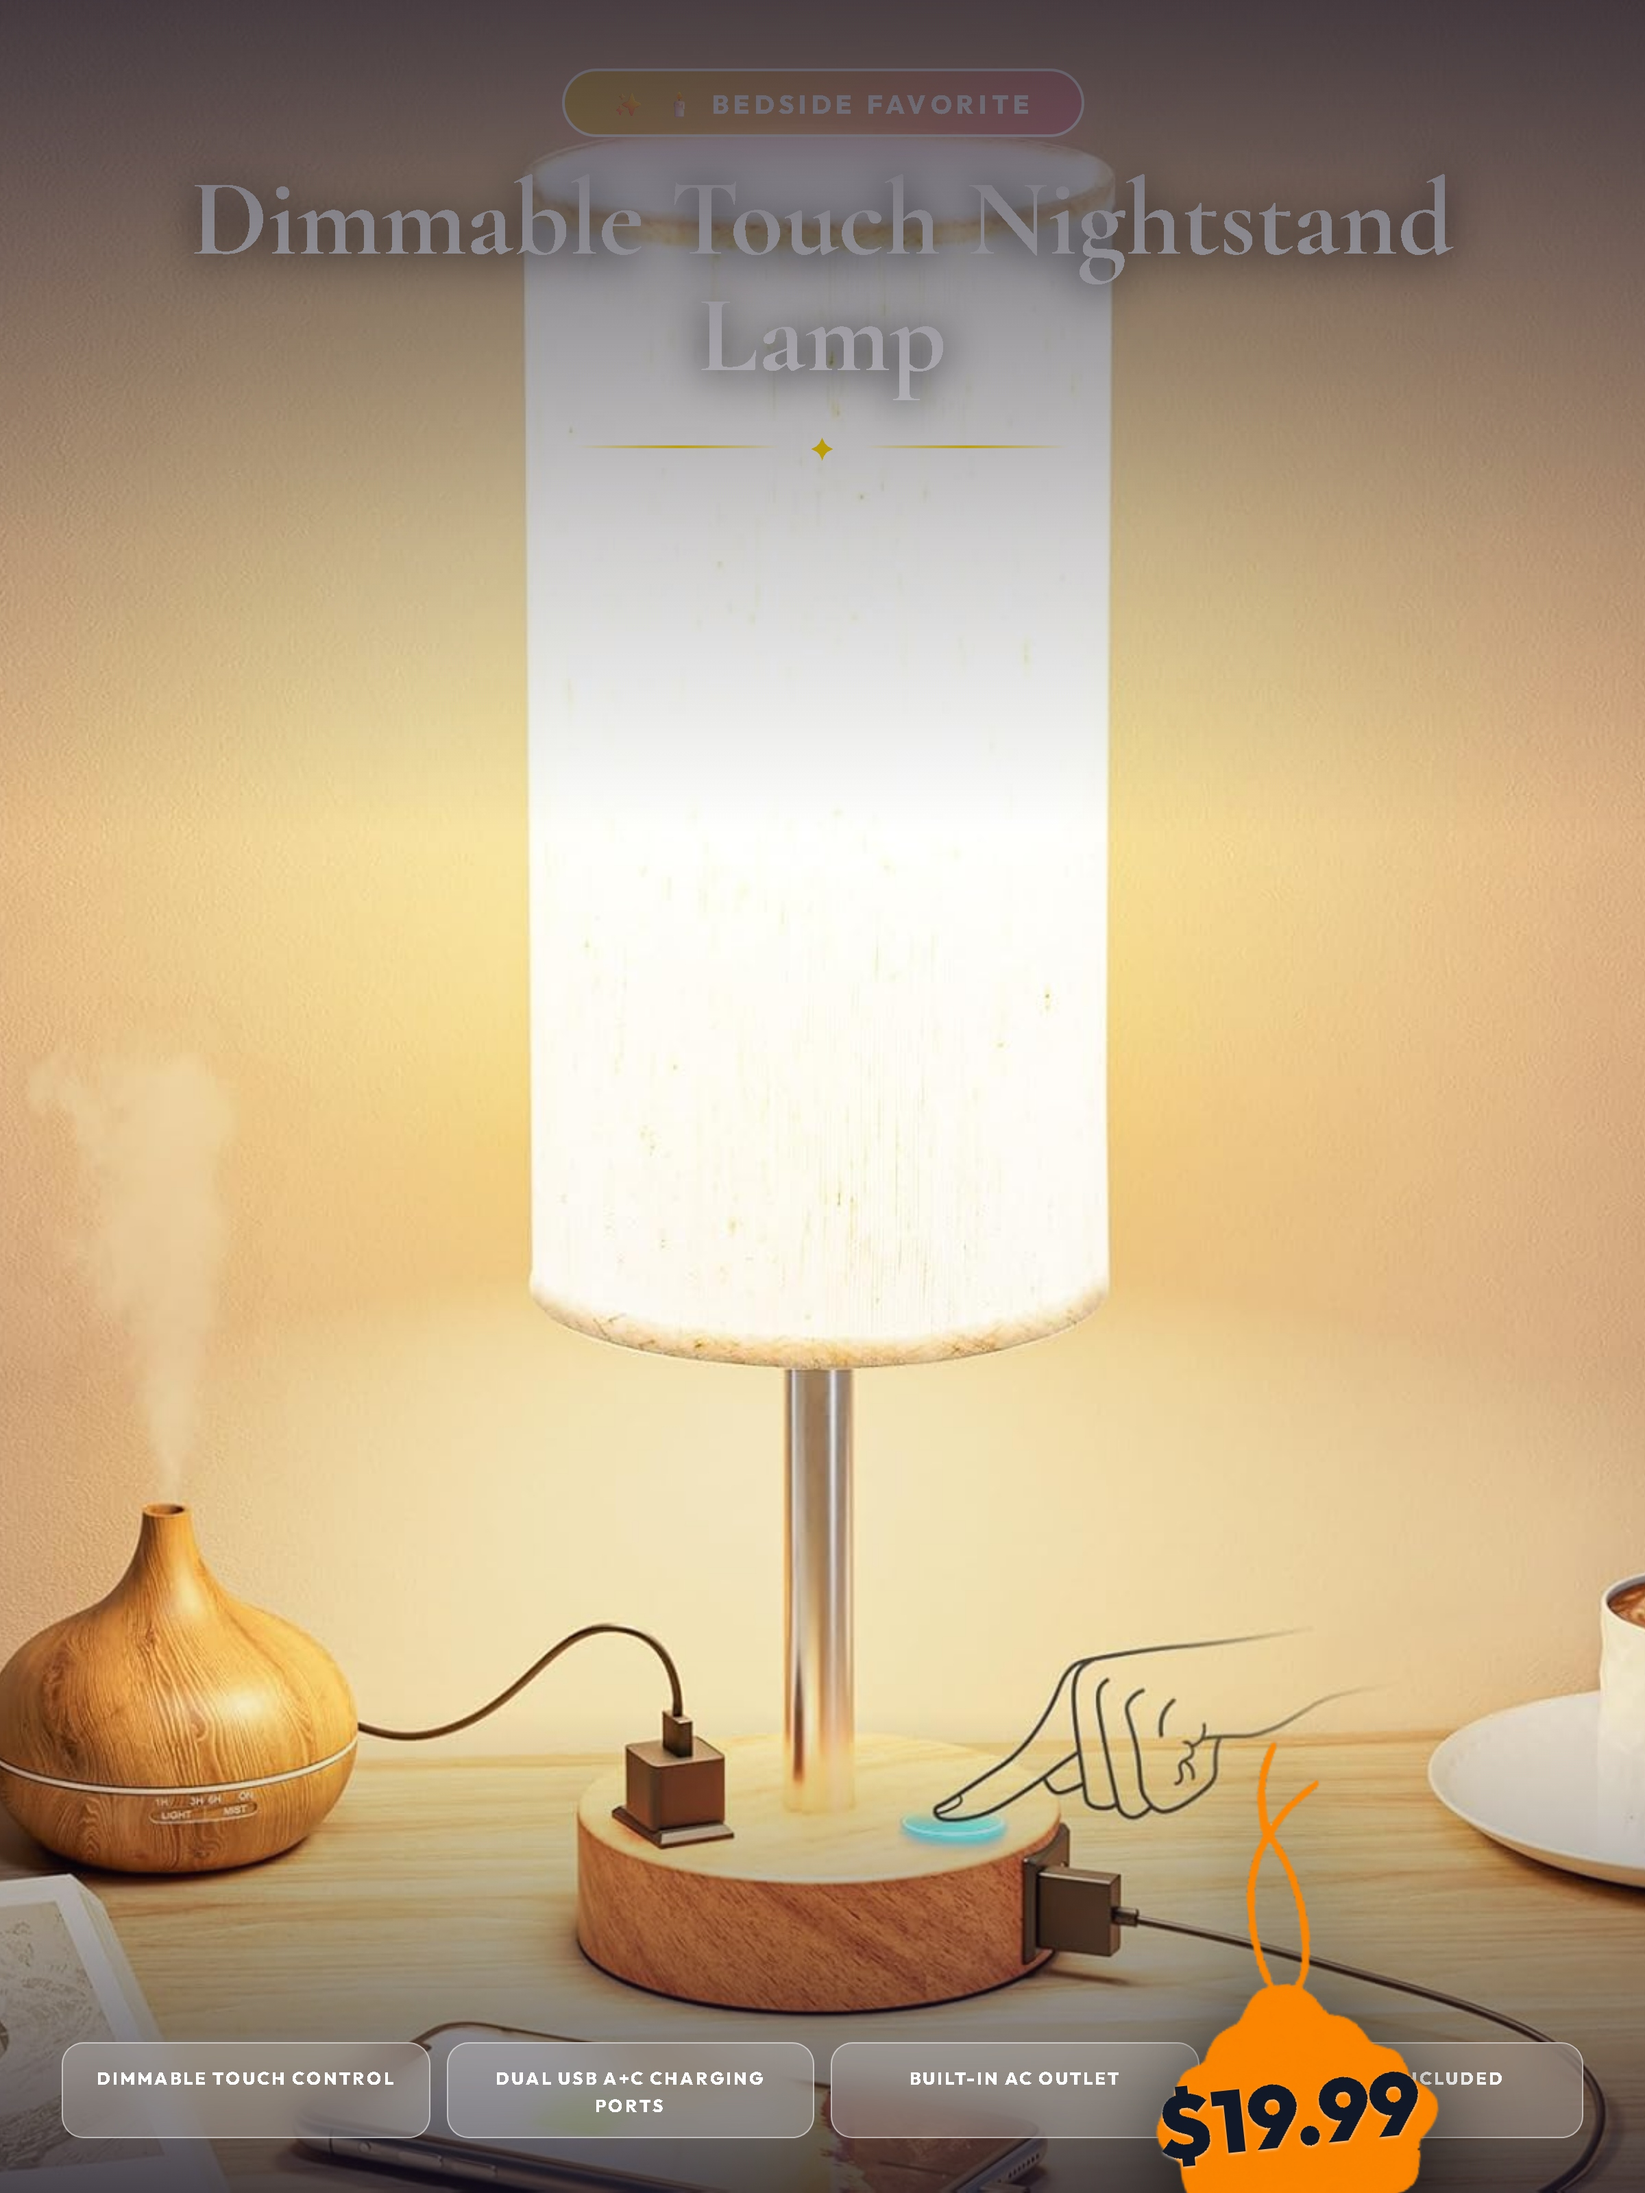
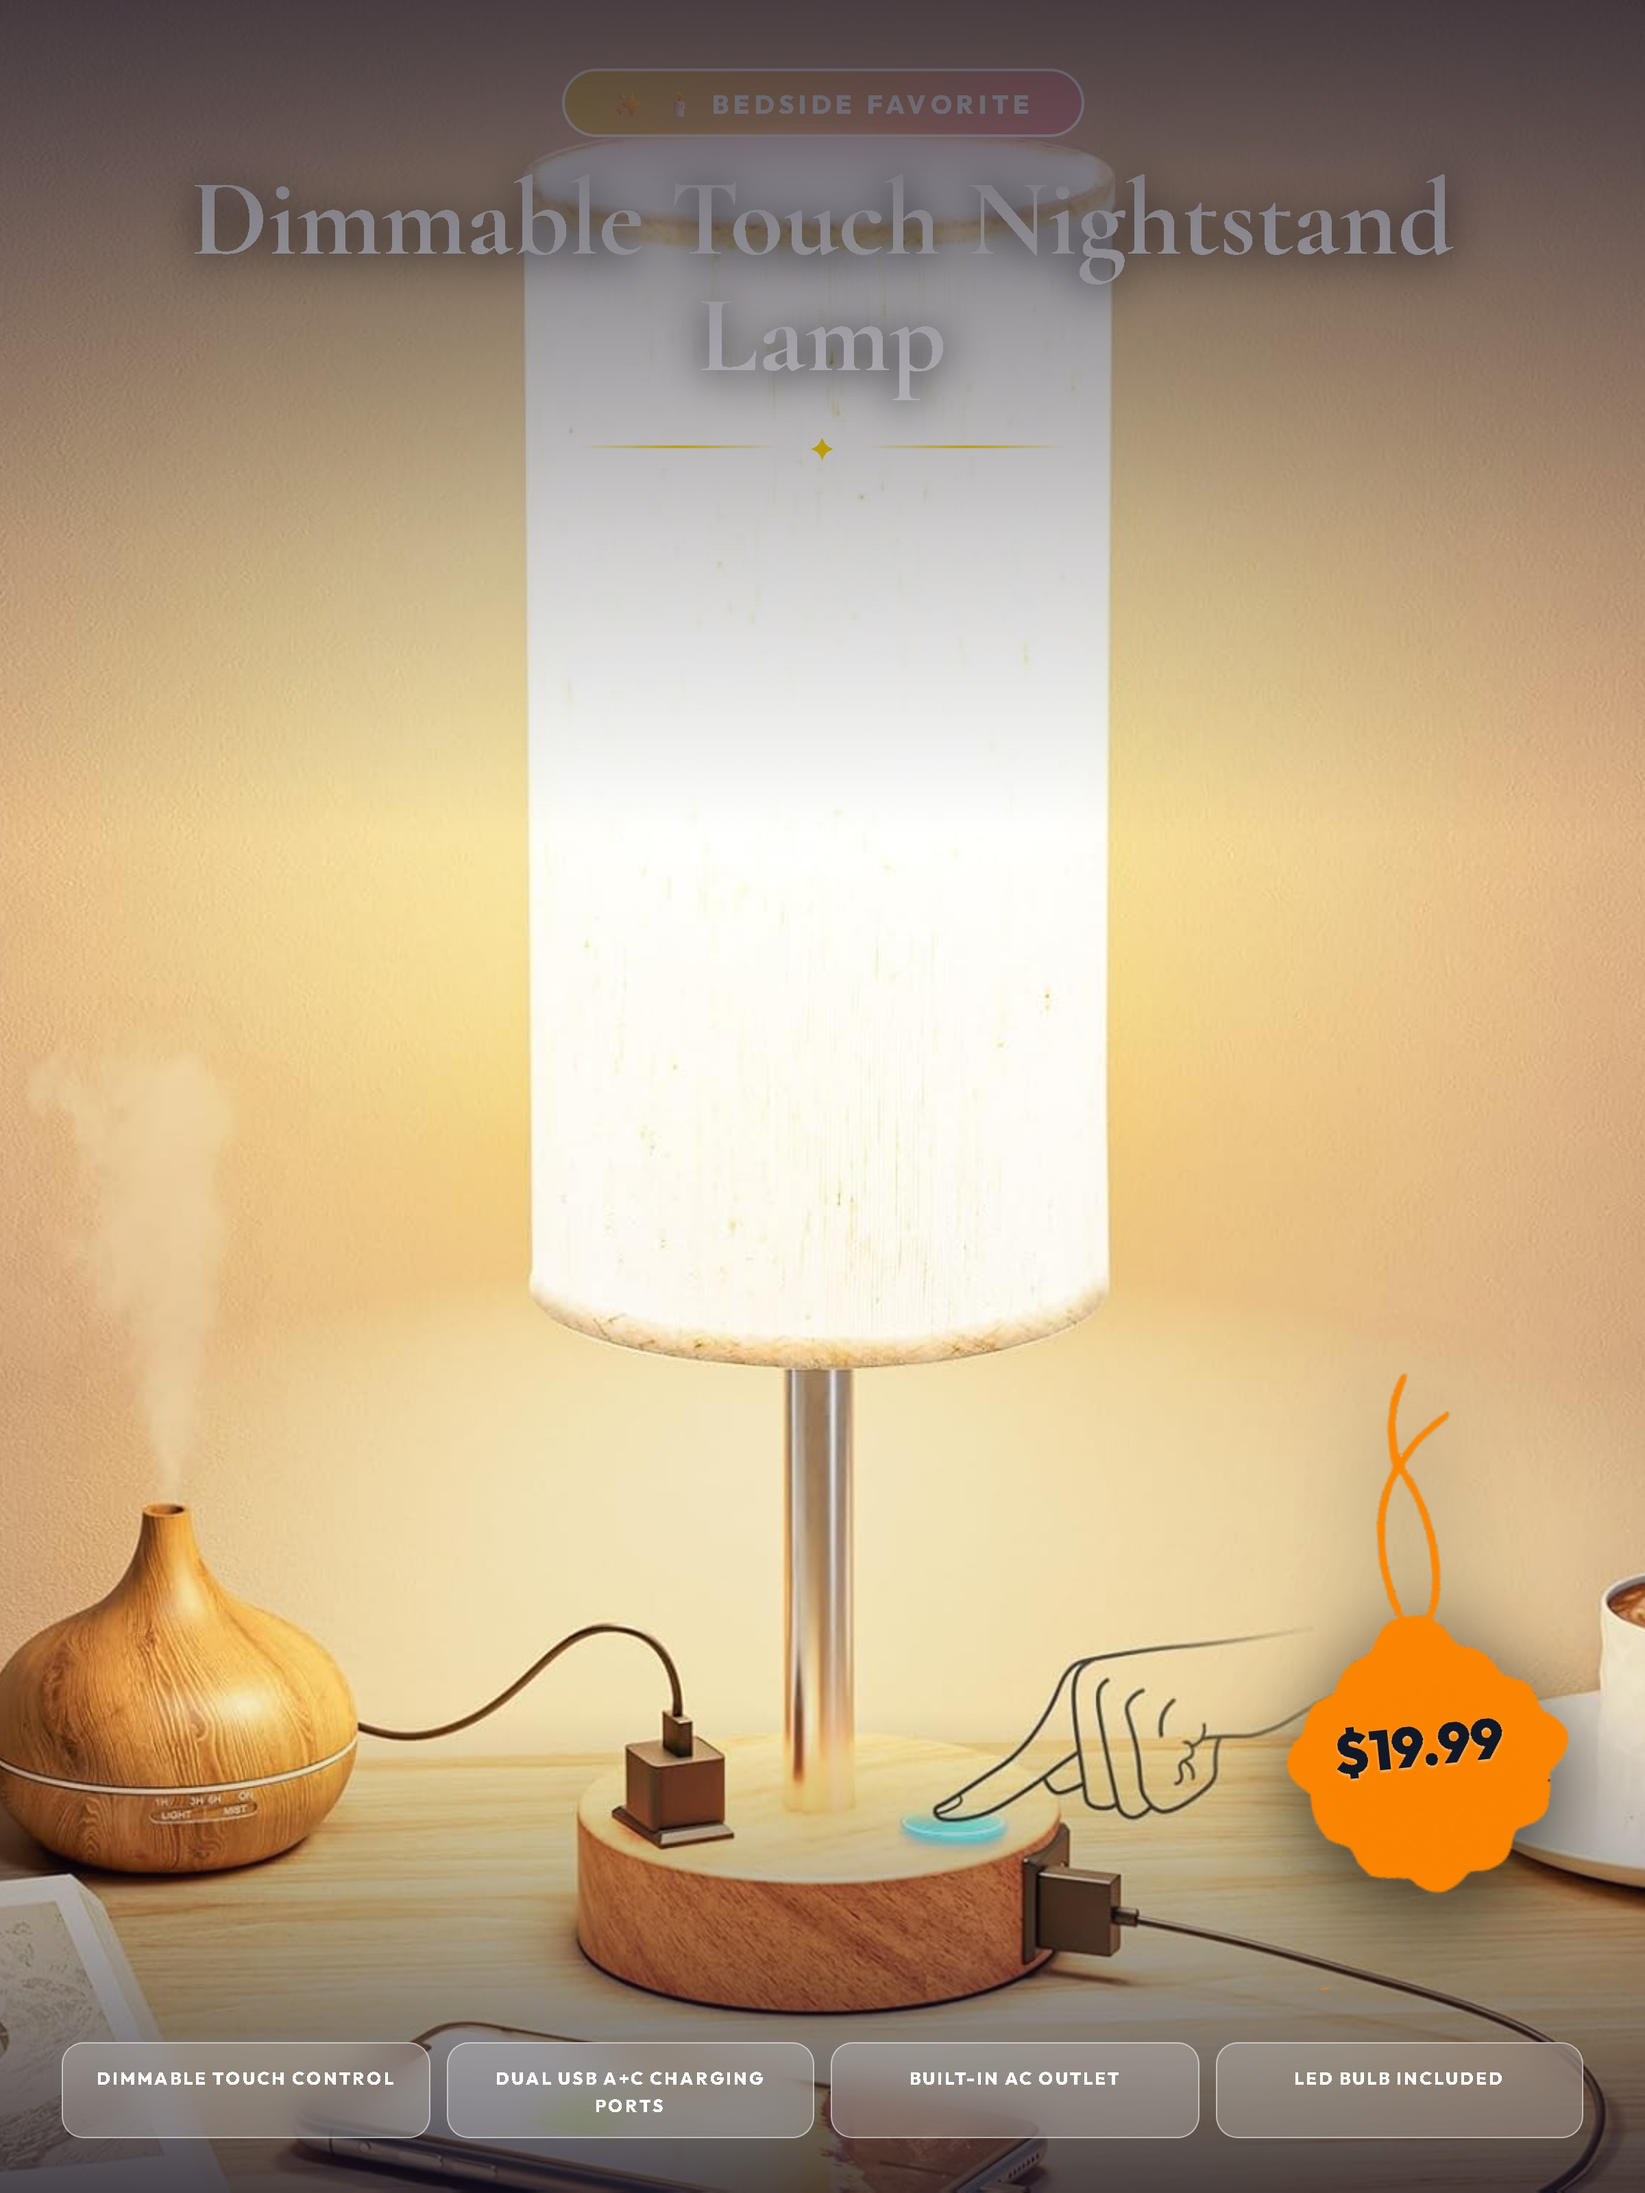
re-render B0BZXNSW5K graphic using 100% saved global_tag_defaults layout

Changed region(s): [[0.6875, 0.625, 1.0, 1.0]]

diff --git a/bridge_B0BZXNSW5K.html b/bridge_B0BZXNSW5K.html
@@ -317,12 +317,12 @@
 
         <!-- Hero Image -->
         <div class="img-container">
-            <img id="mainImage" class="hero-img" src="./focus_product_B0BZXNSW5K_hook.jpg?v=1785410939" alt="Bedside Table Lamp for Bedroom - Dimmable Touch, USB A+C, AC Outlet">
+            <img id="mainImage" class="hero-img" src="./focus_product_B0BZXNSW5K_hook.jpg?v=1785411022" alt="Bedside Table Lamp for Bedroom - Dimmable Touch, USB A+C, AC Outlet">
         </div>
 
         <!-- Image View Switcher -->
         <div class="img-tabs">
-            <button class="img-tab-btn active" onclick="switchImage('./focus_product_B0BZXNSW5K_hook.jpg?v=1785410939', this)">✨ Commercial View</button>
+            <button class="img-tab-btn active" onclick="switchImage('./focus_product_B0BZXNSW5K_hook.jpg?v=1785411022', this)">✨ Commercial View</button>
             
         </div>
 

diff --git a/index.html b/index.html
@@ -637,7 +637,7 @@
                 <div class="card-img-container">
                     <div class="card-price-tag">$19.99</div>
                     <div class="card-rating">★ 4.7</div>
-                    <img src="./focus_product_B0BZXNSW5K_hook.jpg?v=1785410939" alt="Fenmzee Bedside Table Touch Lamp">
+                    <img src="./focus_product_B0BZXNSW5K_hook.jpg?v=1785411022" alt="Fenmzee Bedside Table Touch Lamp">
                 </div>
                 <div class="card-content">
                     <h2>Fenmzee Bedside Table Touch Lamp</h2>

diff --git a/modules/html_overlay_engine.py b/modules/html_overlay_engine.py
@@ -330,16 +330,18 @@ def render_html_overlay(
     top_op = scrim["top_opacity"]
     bot_op = scrim["bot_opacity"]
     # Load system-wide saved layout defaults if present
+    # Load system-wide saved layout defaults if present
     defaults_file = Path("G:/CLI/pinterest-auto-affiliate/global_tag_defaults.json")
     if defaults_file.exists():
         try:
             g_def = json.loads(defaults_file.read_text(encoding="utf-8"))
-            if tag_width_px == 380: tag_width_px = int(g_def.get("tag_width", 380))
-            if tag_rotation_deg == -6: tag_rotation_deg = int(g_def.get("tag_rotation", -6))
-            if tag_pos_x is None: tag_pos_x = float(g_def.get("tag_pos_x", 61.0))
-            if tag_pos_y is None: tag_pos_y = float(g_def.get("tag_pos_y", 75.0))
-            if tag_bg_hex is None: tag_bg_hex = g_def.get("tag_color", None)
-            if price_text_color is None: price_text_color = g_def.get("price_text_color", None)
+            if tag_width_px == 380 and "tag_width" in g_def: tag_width_px = int(g_def["tag_width"])
+            if tag_rotation_deg == -6 and "tag_rotation" in g_def: tag_rotation_deg = int(g_def["tag_rotation"])
+            if (tag_pos_x is None or tag_pos_x == 61.0) and "tag_pos_x" in g_def: tag_pos_x = float(g_def["tag_pos_x"])
+            if (tag_pos_y is None or tag_pos_y == 75.0) and "tag_pos_y" in g_def: tag_pos_y = float(g_def["tag_pos_y"])
+            if tag_bg_hex is None and "tag_color" in g_def: tag_bg_hex = g_def["tag_color"]
+            if price_text_color is None and "price_text_color" in g_def: price_text_color = g_def["price_text_color"]
+            if (price_font_scale is None or price_font_scale == 0.38) and "price_font_scale" in g_def: price_font_scale = float(g_def["price_font_scale"])
             if price_text_pos_x is None and "price_text_pos_x" in g_def: price_text_pos_x = float(g_def["price_text_pos_x"])
             if price_text_pos_y is None and "price_text_pos_y" in g_def: price_text_pos_y = float(g_def["price_text_pos_y"])
         except Exception as e_def:
